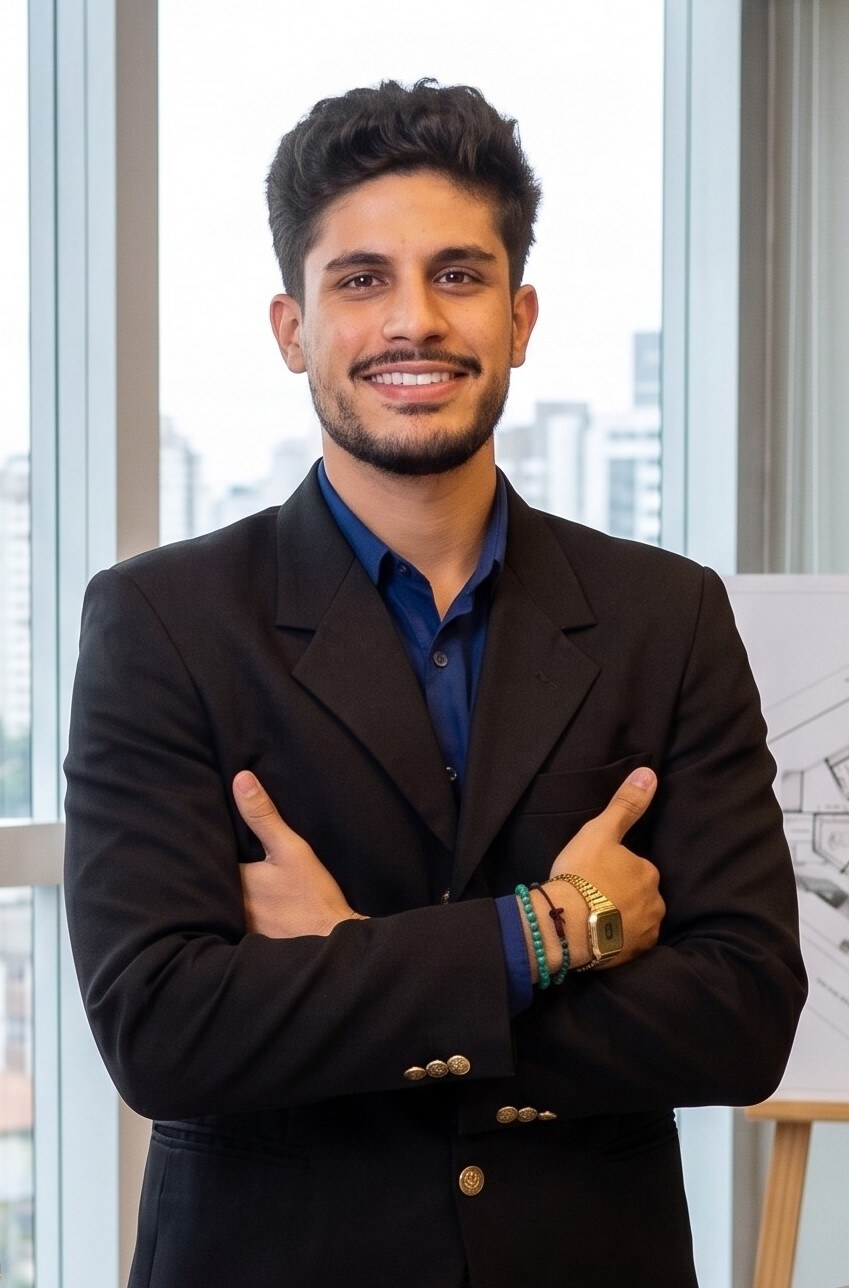
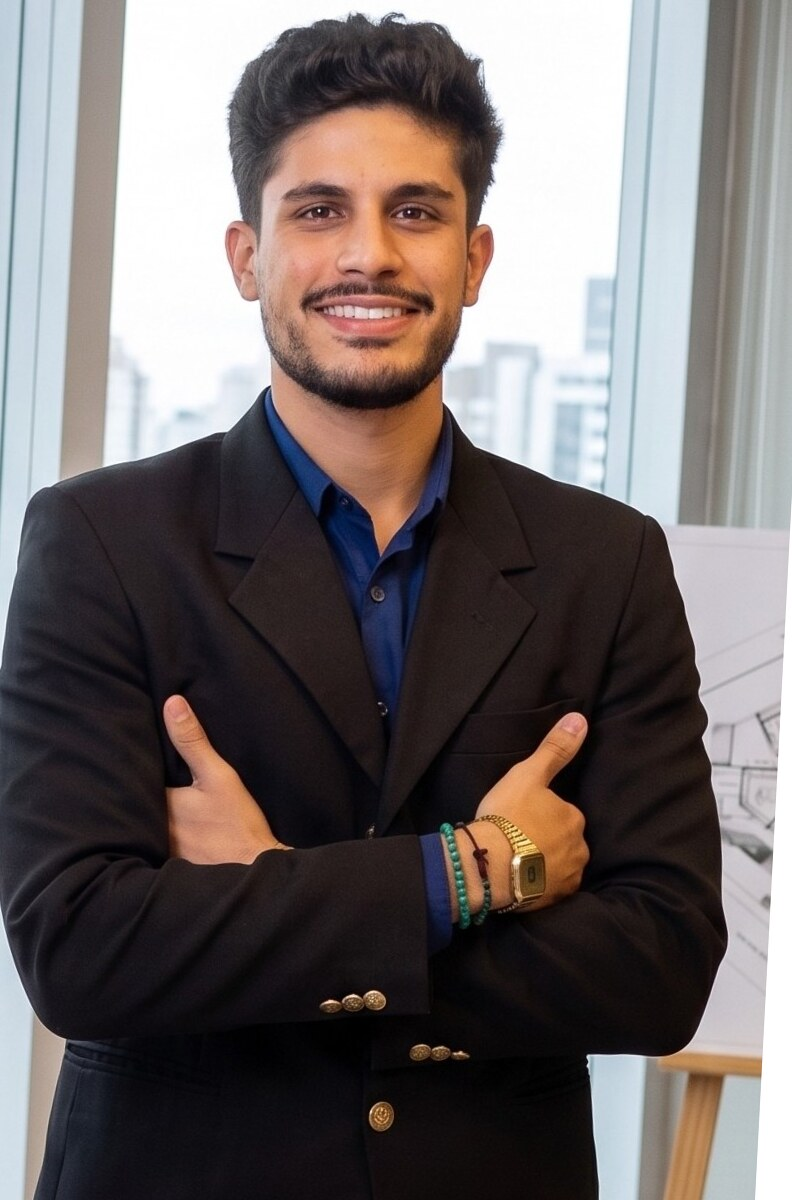
feat: carrossel de fotos do Wesley + endireita a foto torta
- Foto de terno da página Sobre estava inclinada ~3°: corrigida
  (rotacionada e recortada).
- "O escritório" (home) e "O profissional" (Sobre) agora alternam
  entre 4 fotos dele com crossfade (mesma pasta "melhores fotos").
- Novo componente .photo-rotator (CSS + JS), respeita prefers-reduced-motion.

diff --git a/src/assets/js/main.js b/src/assets/js/main.js
@@ -29,6 +29,24 @@
     }
   }
 
+  /* ---- Carrossel de fotos do profissional --------------------------- */
+  var rotators = document.querySelectorAll(".photo-rotator");
+  if (rotators.length) {
+    var rotReduce = window.matchMedia("(prefers-reduced-motion: reduce)").matches;
+    if (!rotReduce) {
+      rotators.forEach(function (rot) {
+        var slides = rot.querySelectorAll(".photo-rotator__slide");
+        if (slides.length < 2) return;
+        var idx = 0;
+        setInterval(function () {
+          slides[idx].classList.remove("is-active");
+          idx = (idx + 1) % slides.length;
+          slides[idx].classList.add("is-active");
+        }, 5000);
+      });
+    }
+  }
+
   /* ---- Menu mobile ---------------------------------------------------- */
   var toggle = document.getElementById("nav-toggle");
   var nav = document.getElementById("site-nav");

diff --git a/src/assets/css/styles.css b/src/assets/css/styles.css
@@ -696,6 +696,32 @@ p {
   object-fit: cover;
 }
 
+/* Carrossel de fotos (foto do profissional que alterna) */
+.photo-rotator {
+  position: relative;
+  aspect-ratio: 4 / 3;
+}
+.photo-rotator__slide {
+  position: absolute;
+  inset: 0;
+  opacity: 0;
+  transition: opacity 1.2s ease;
+}
+.photo-rotator__slide.is-active {
+  opacity: 1;
+}
+.photo-rotator__slide picture {
+  display: block;
+  width: 100%;
+  height: 100%;
+}
+.photo-rotator__slide img {
+  width: 100%;
+  height: 100%;
+  aspect-ratio: auto;
+  object-fit: cover;
+}
+
 /* ---- Métricas / etapas ------------------------------------------------- */
 .steps {
   display: grid;
